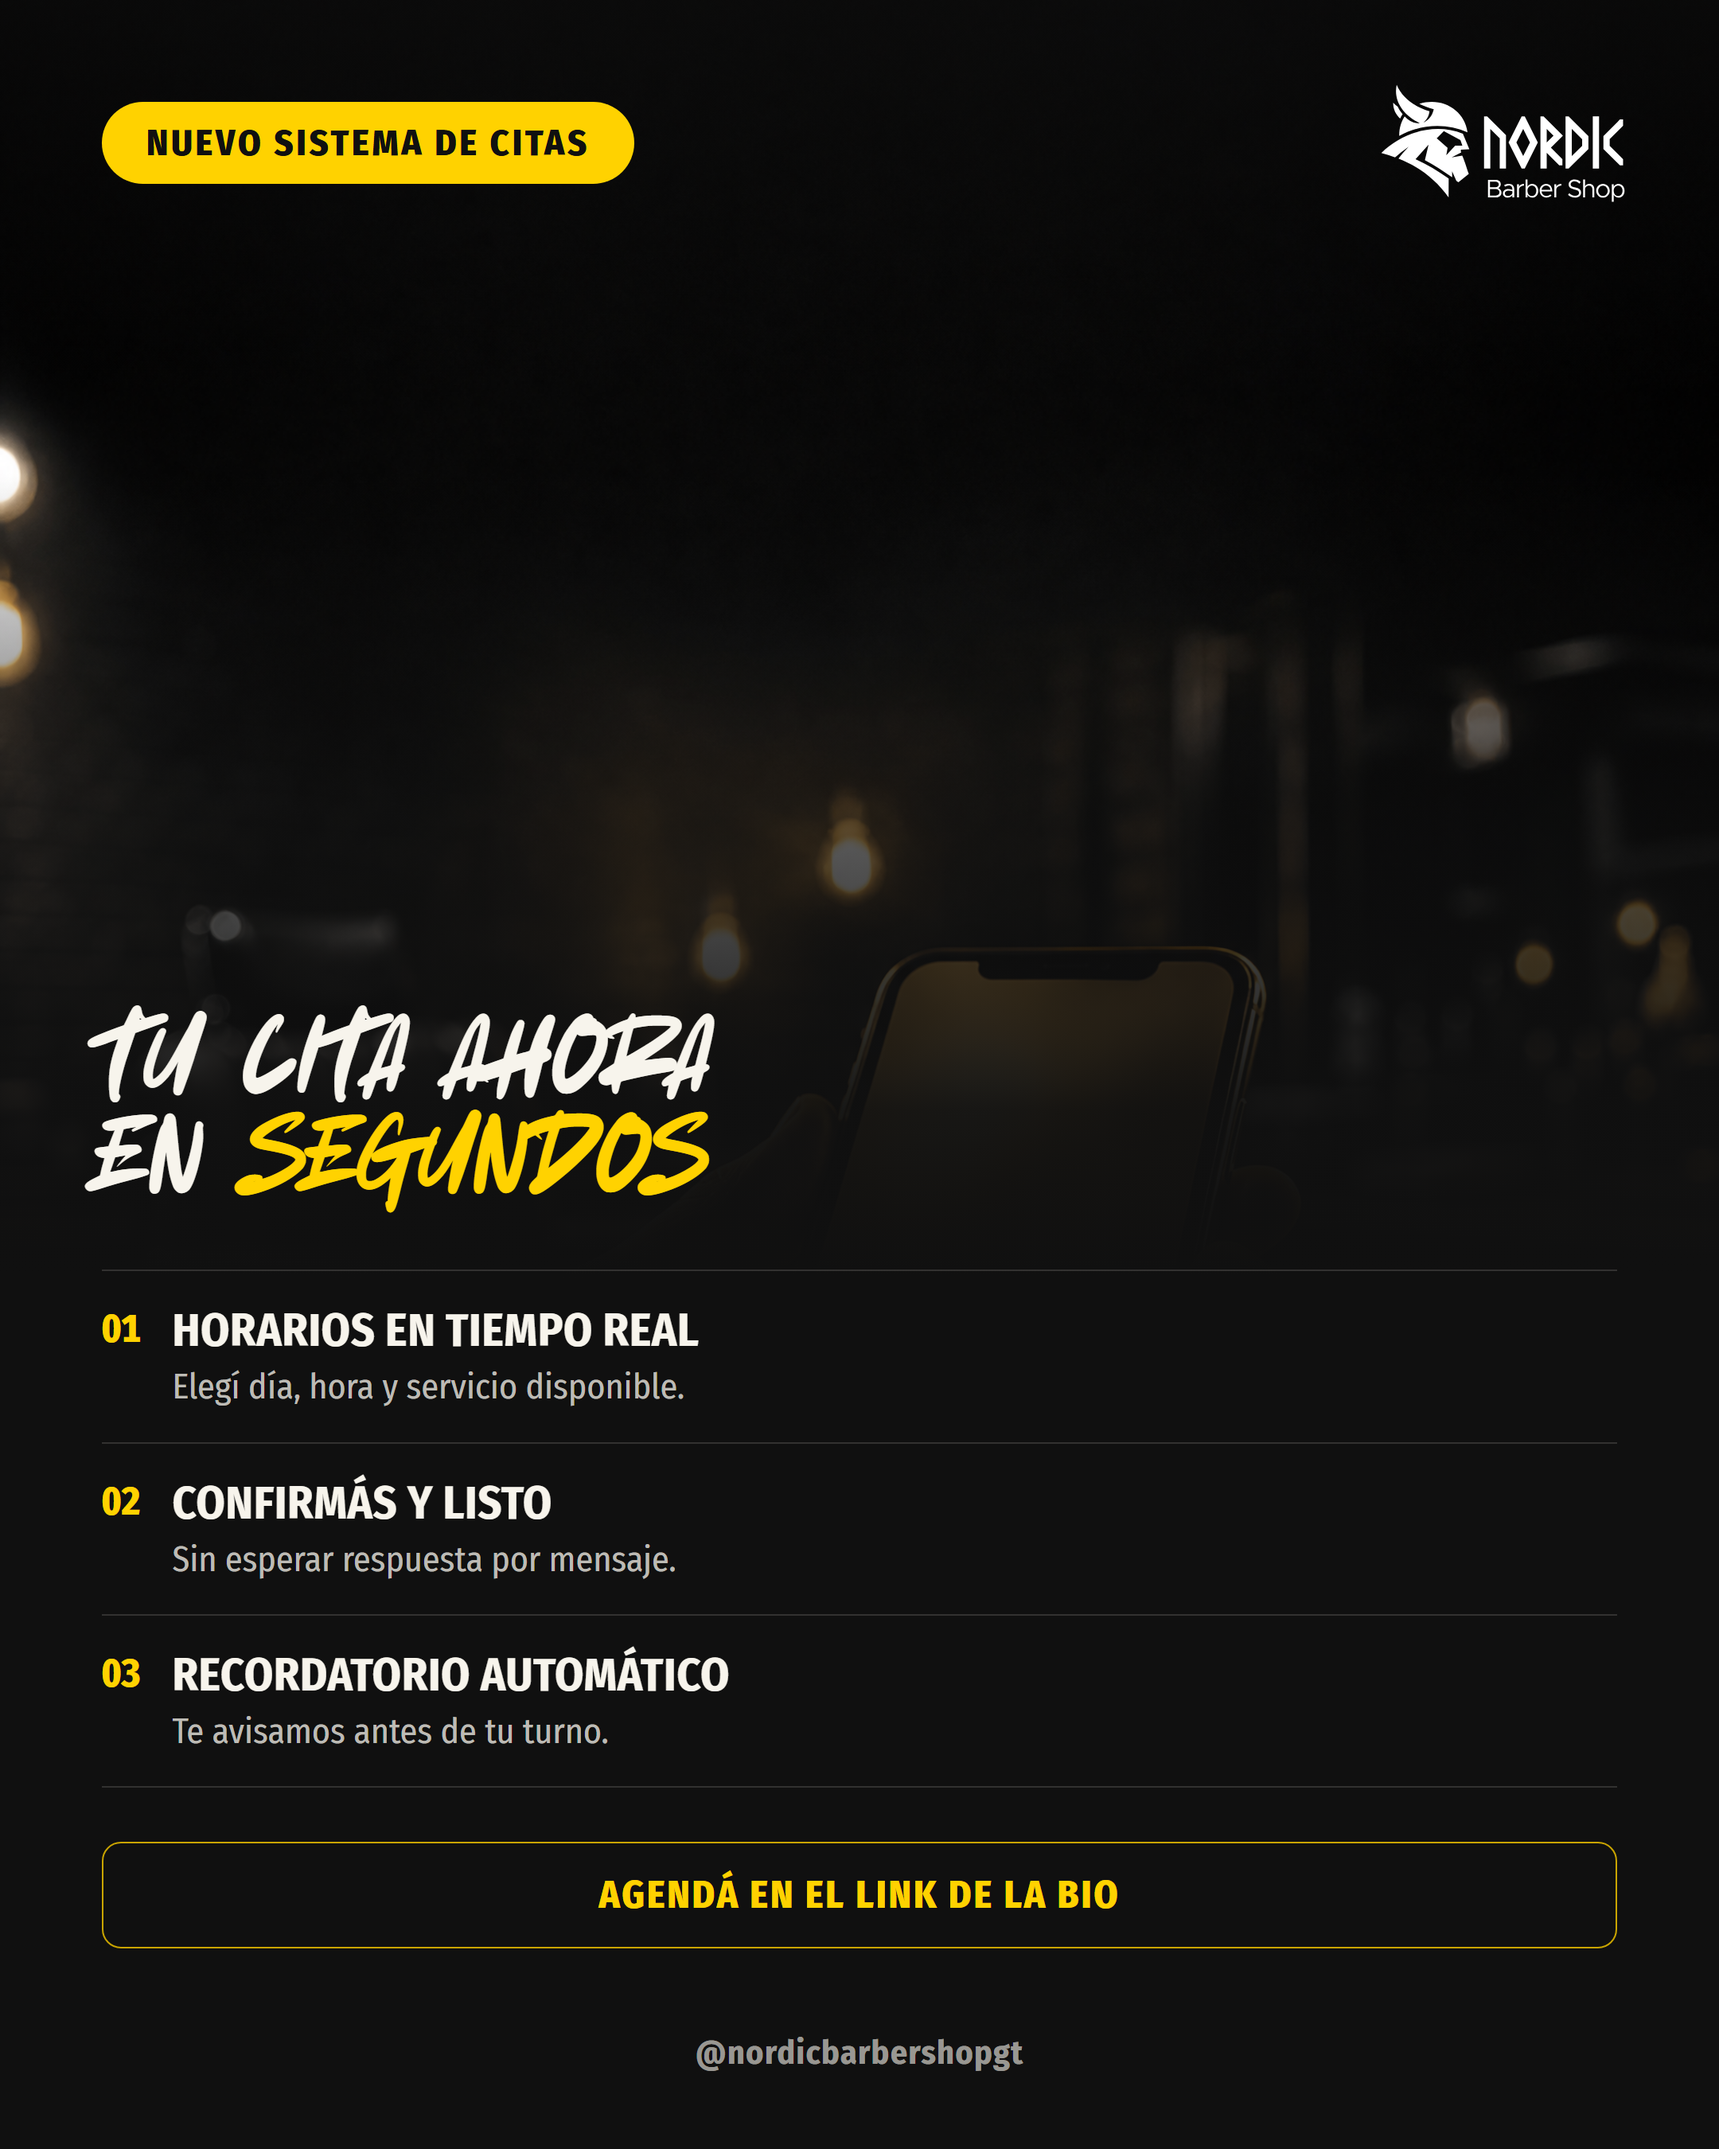
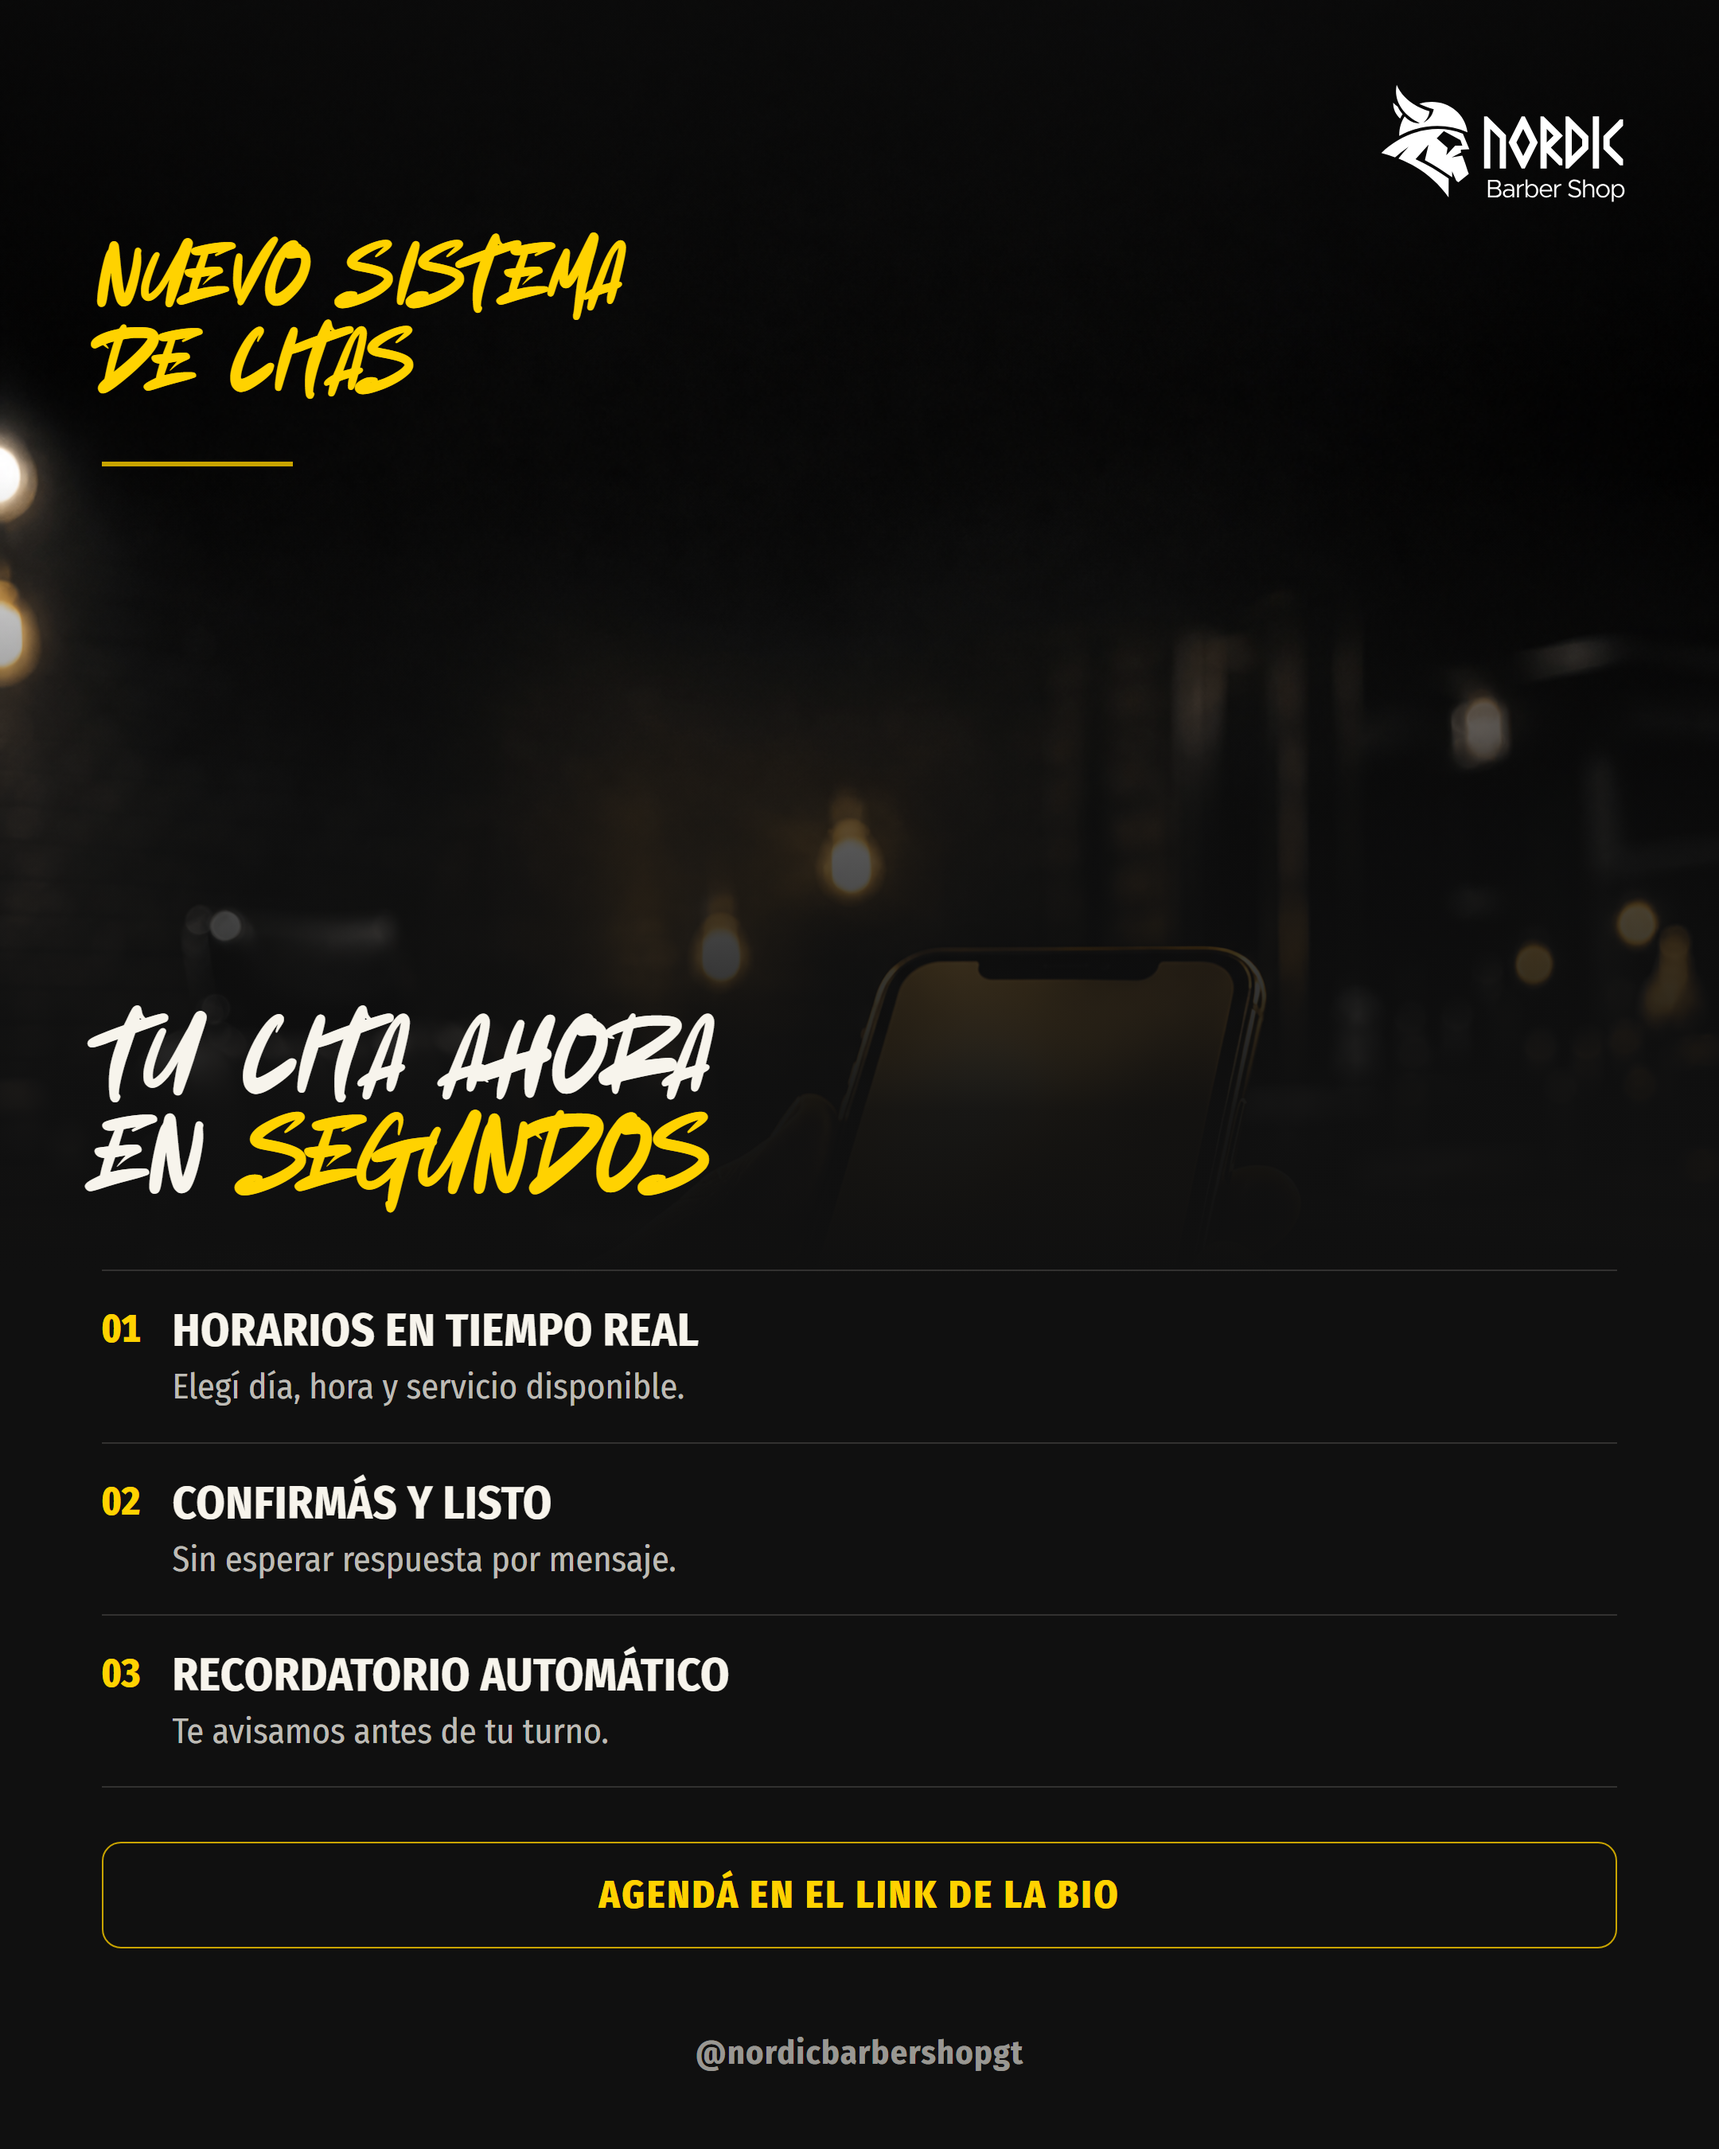
Revise nuevo-sistema-citas: eyebrow now display-size like the headline
Client feedback: wanted "Nuevo sistema de citas" to read in large
type too, the same way "Tu cita ahora en segundos" does. Replaced
the small gold pill with a Lost in South display eyebrow (54px,
gold, two lines) plus a short gold-deep hairline underneath —
matches the headline's scale/register without competing (SEGUNDOS
stays the only in-line highlight). Also fills the dead-space upper
half of the feed tile that the pill left empty. Backgrounds unchanged.

Re-rendered both PNGs, updated copy.json (pill -> eyebrow_display,
build_method revision note) and the showcase alt text; verified via
headless-Chrome screenshot of root index.html.

Claude-Session: https://claude.ai/code/session_01C2DGAWbMzfFZcDX9gJxmAN

Changed region(s): [[0.062, 0.0311, 0.3722, 0.1867]]

diff --git a/index.html b/index.html
@@ -432,7 +432,7 @@ const POSTS = [
     title:'Nuevo sistema de citas',
     label:'Anuncio',
     cover:'posts/instagram/nuevo-sistema-citas/00-portada.png',
-    alt:'Anuncio Nordic Barber Shop del nuevo sistema de citas: primer plano duotono de unas manos sosteniendo un celular con la pantalla en un resplandor dorado dentro de la barbería, pill y titular en gold — Tu cita ahora en segundos — con lista de tres beneficios (horarios en tiempo real, confirmás y listo, recordatorio automático) y CTA agendá en el link de la bio',
+    alt:'Anuncio Nordic Barber Shop del nuevo sistema de citas: primer plano duotono de unas manos sosteniendo un celular con la pantalla en un resplandor dorado dentro de la barbería, eyebrow en gold a tamaño titular — Nuevo sistema de citas — y titular en gold/bone — Tu cita ahora en segundos — con lista de tres beneficios (horarios en tiempo real, confirmás y listo, recordatorio automático) y CTA agendá en el link de la bio',
     copyJson:'posts/instagram/nuevo-sistema-citas/copy.json',
     file:'00-portada.png'
   },
@@ -443,7 +443,7 @@ const POSTS = [
     title:'Nuevo sistema de citas',
     label:'Versión: Story',
     cover:'posts/instagram/nuevo-sistema-citas/00-story.png',
-    alt:'Anuncio Nordic Barber Shop del nuevo sistema de citas, versión Story: primer plano duotono de unas manos sosteniendo un celular con la pantalla en un resplandor dorado dentro de la barbería, pill y titular en gold — Tu cita ahora en segundos — con lista de tres beneficios y CTA agendá en el link de la bio',
+    alt:'Anuncio Nordic Barber Shop del nuevo sistema de citas, versión Story: primer plano duotono de unas manos sosteniendo un celular con la pantalla en un resplandor dorado dentro de la barbería, eyebrow en gold a tamaño titular — Nuevo sistema de citas — y titular en gold/bone — Tu cita ahora en segundos — con lista de tres beneficios y CTA agendá en el link de la bio',
     copyJson:'posts/instagram/nuevo-sistema-citas/copy.json',
     file:'00-story.png'
   },

diff --git a/posts/instagram/nuevo-sistema-citas/index-story.html b/posts/instagram/nuevo-sistema-citas/index-story.html
@@ -74,19 +74,22 @@
     height:80px;
   }
 
-  /* Pill — bajo la zona segura superior de Instagram */
-  .pill{
+  /* Eyebrow display — bajo la zona segura superior de Instagram */
+  .eyebrow{
     position:absolute;
     top:274px;left:64px;
-    background:var(--gold);
-    color:var(--ink);
-    font-family:"Fira Sans Condensed";
-    font-weight:800;
-    font-size:23px;
-    letter-spacing:.08em;
+    font-family:"Lost in South";
+    font-size:54px;
+    line-height:1.0;
+    letter-spacing:.07em;
     text-transform:uppercase;
-    padding:12px 28px;
-    border-radius:40px;
+    color:var(--gold);
+  }
+  .eyebrow-rule{
+    position:absolute;
+    top:414px;left:64px;
+    width:120px;height:3px;
+    background:var(--gold-deep);
   }
 
   /* Todo el copy anclado al fondo, con espacio para la barra de respuesta */
@@ -182,7 +185,8 @@
   <div class="scrim-bottom"></div>
 
   <img class="logo" src="../../../logo-variations/Nordic-BarberShop-logo-white.svg" alt="Nordic Barber Shop">
-  <div class="pill">Nuevo sistema de citas</div>
+  <div class="eyebrow">NUEVO SISTEMA<br>DE CITAS</div>
+  <div class="eyebrow-rule"></div>
 
   <div class="content">
 

diff --git a/posts/instagram/nuevo-sistema-citas/index.html b/posts/instagram/nuevo-sistema-citas/index.html
@@ -74,18 +74,22 @@
     height:80px;
   }
 
-  .pill{
+  /* Eyebrow display — el anuncio del cambio, a tamaño titular */
+  .eyebrow{
     position:absolute;
-    top:64px;left:64px;
-    background:var(--gold);
-    color:var(--ink);
-    font-family:"Fira Sans Condensed";
-    font-weight:800;
-    font-size:23px;
-    letter-spacing:.08em;
+    top:150px;left:64px;
+    font-family:"Lost in South";
+    font-size:54px;
+    line-height:1.0;
+    letter-spacing:.07em;
     text-transform:uppercase;
-    padding:12px 28px;
-    border-radius:40px;
+    color:var(--gold);
+  }
+  .eyebrow-rule{
+    position:absolute;
+    top:290px;left:64px;
+    width:120px;height:3px;
+    background:var(--gold-deep);
   }
 
   .content{
@@ -181,7 +185,8 @@
   <div class="scrim-bottom"></div>
 
   <img class="logo" src="../../../logo-variations/Nordic-BarberShop-logo-white.svg" alt="Nordic Barber Shop">
-  <div class="pill">Nuevo sistema de citas</div>
+  <div class="eyebrow">NUEVO SISTEMA<br>DE CITAS</div>
+  <div class="eyebrow-rule"></div>
 
   <div class="content">
 
